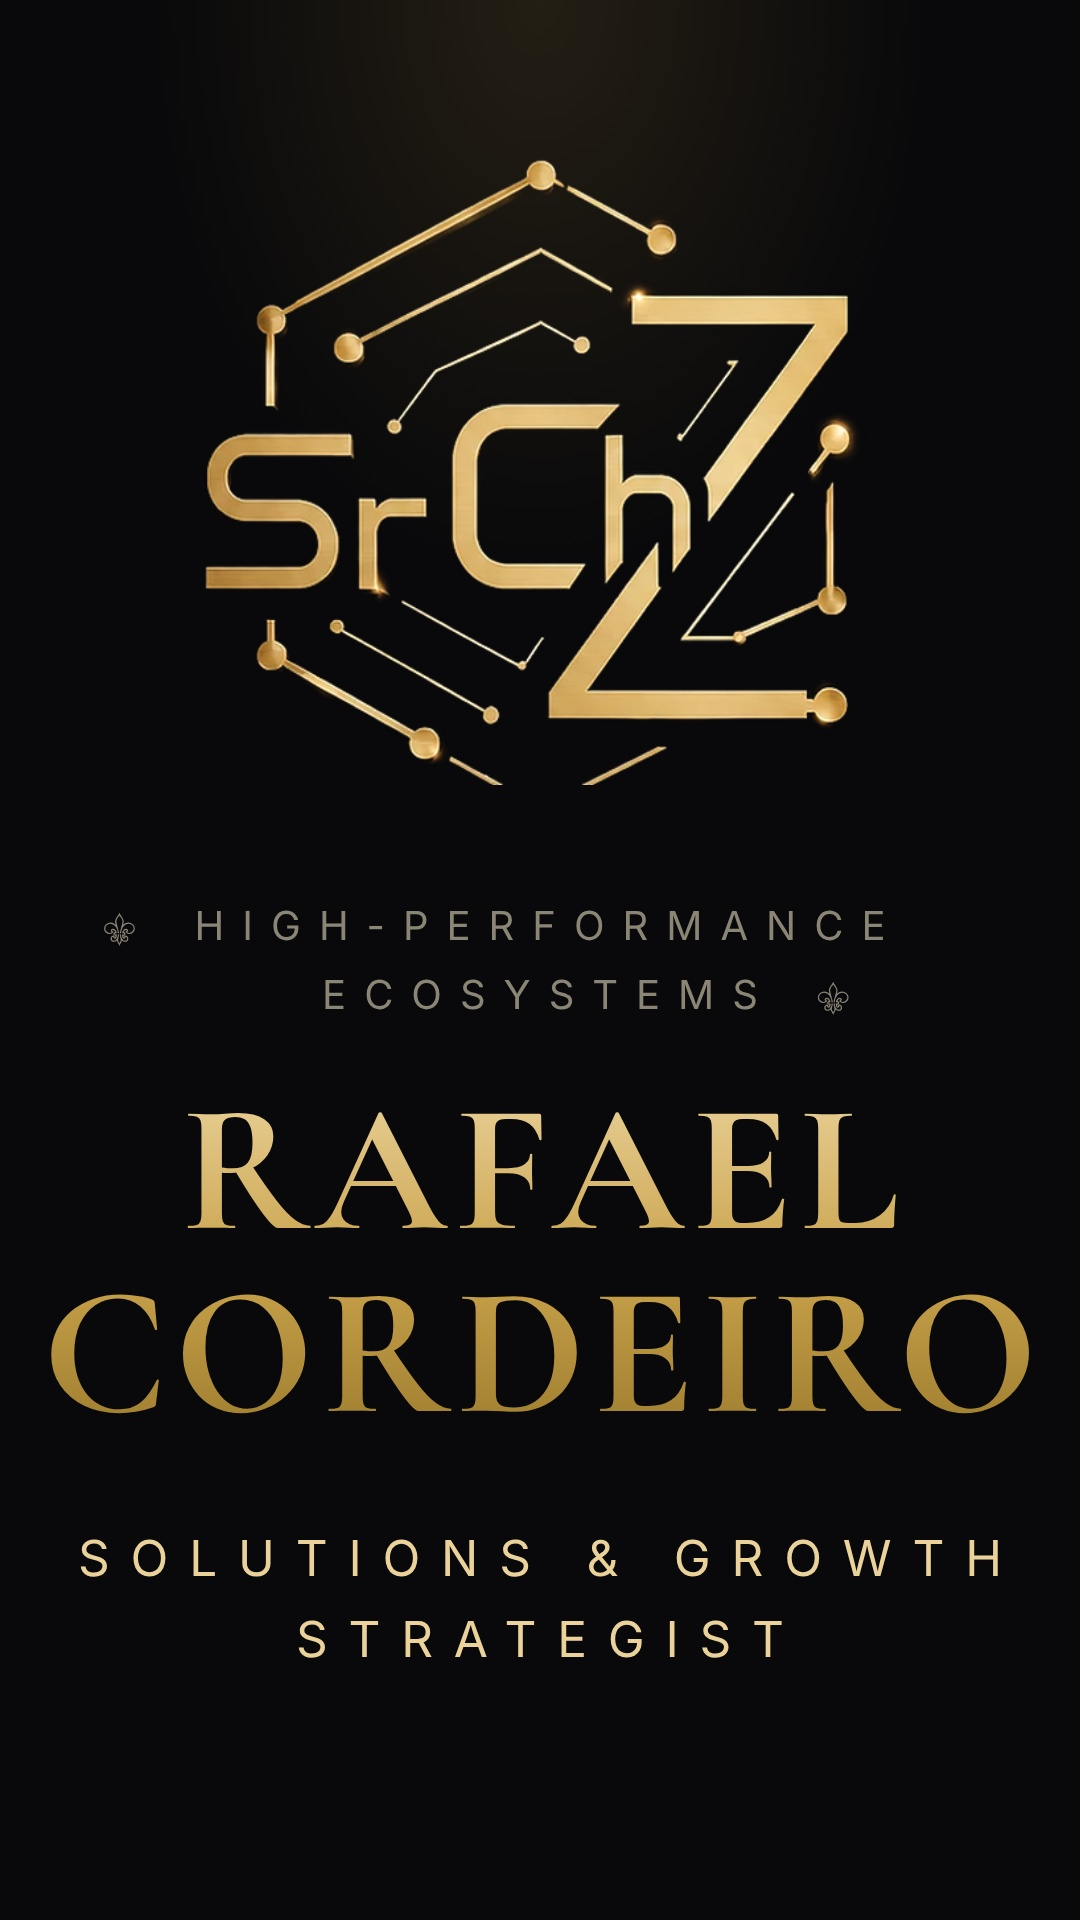
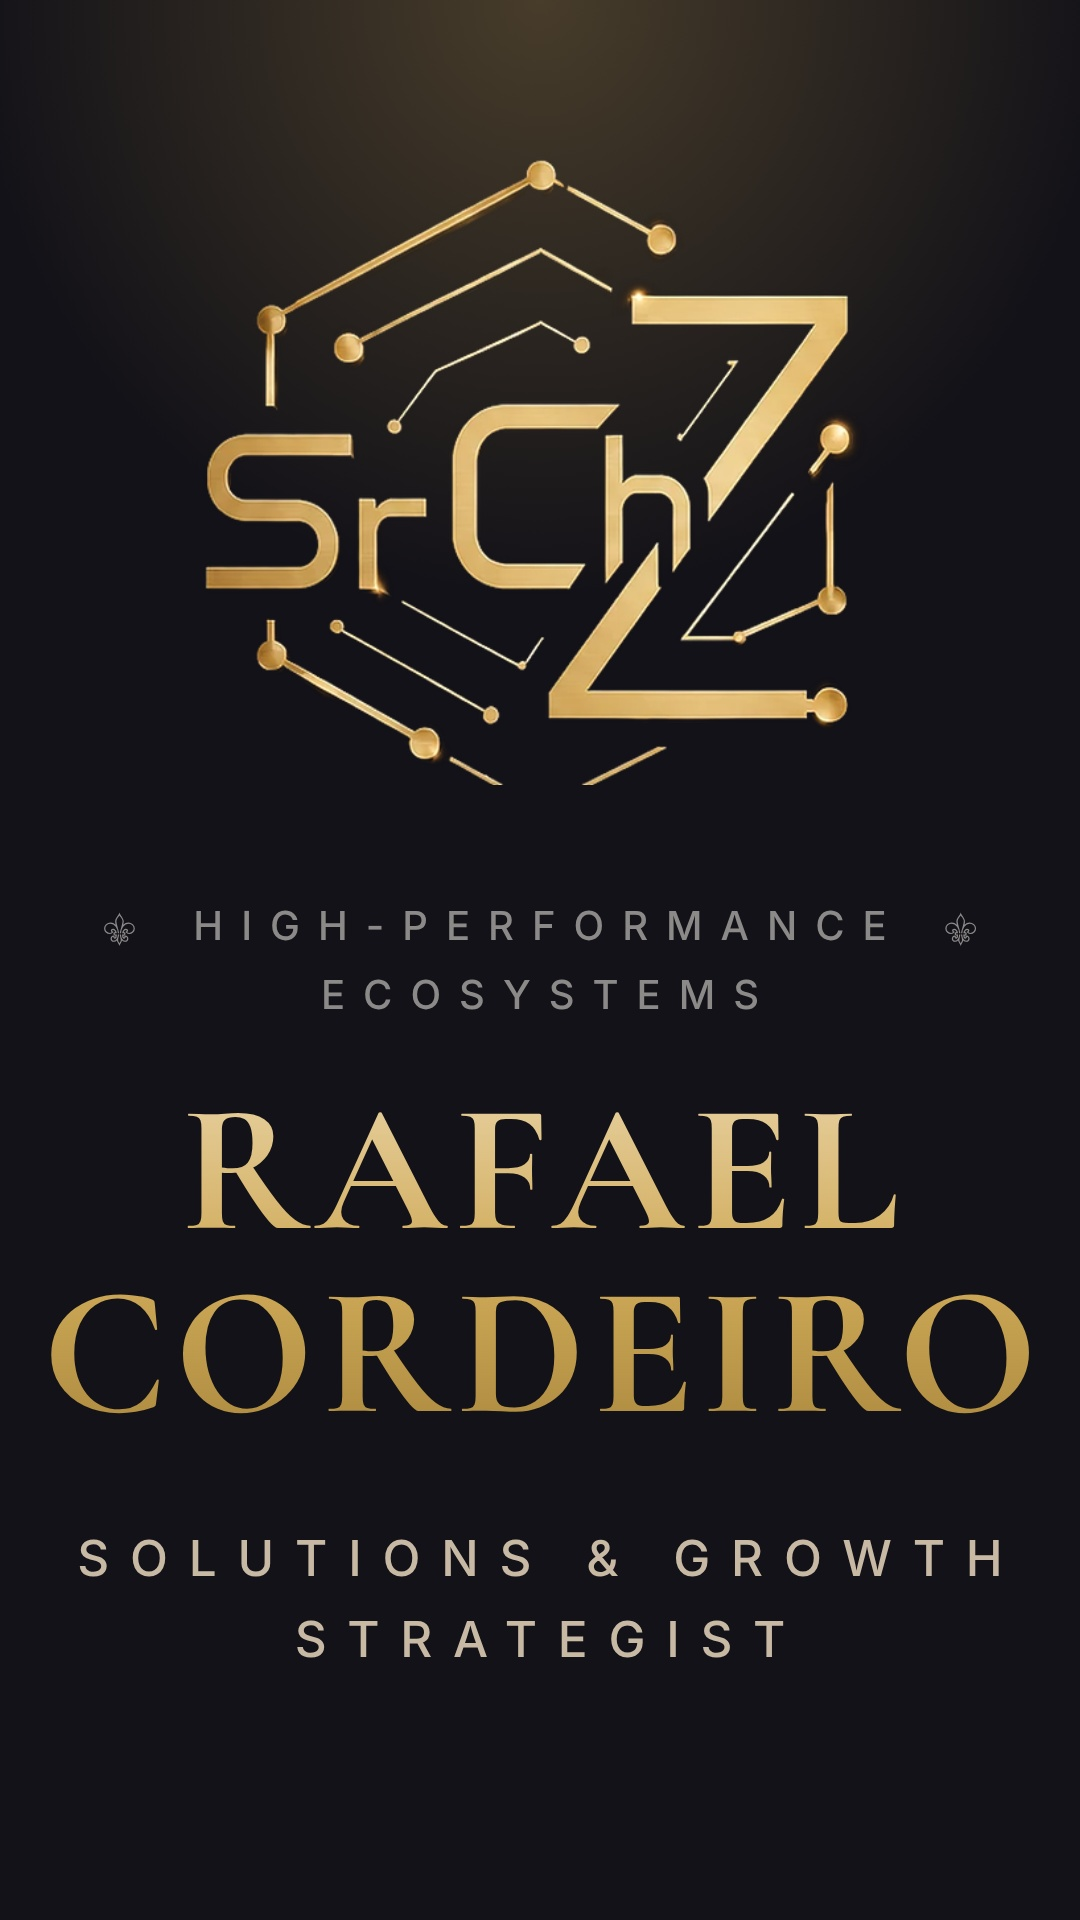
Capa do Reels: flores só em cima e as cores da capa atual do Instagram
Dois pedidos do usuário.

As flores de lis ficam só na linha de cima, uma de cada lado de
HIGH-PERFORMANCE, com ECOSYSTEMS centrada embaixo — com uma flor em cima e
outra embaixo, o rótulo não ficava simétrico.

As cores passam a ser as da capa que ele já tem no Instagram, medidas num
print do grid, e não as do CSS: fundo grafite #131218, brilho do topo com o
dobro da força, nome num dourado mais claro e menos saturado, rótulo cinza
neutro e cargo creme. O print passa pelo Instagram, que desbota um pouco os
dourados; o logo, que é o mesmo arquivo nas duas capas, mostra quanto (-3,
-2, +8 em RGB), e os dourados daqui descontam isso para a capa sair igual
depois de postada. Medida do mesmo jeito que o print, reduzida por área ao
tamanho da miniatura, cada região cai a menos de 6 níveis dele.

Rótulo e cargo passam para Inter 500. O celular desenha a fonte mais cheia
que o Chromium daqui: com a 400, as letras finas saíam 10 a 20% mais
fracas que no print, medida a tinta total da linha, com o mesmo tamanho
(STRATEGIST com 160 px nas duas). Com a 500 a tinta bate a ±2%. A média
dos pixels acima de um limiar dizia o contrário, e era o limiar que
enganava: escurecendo a cor, as bordas finas saem da conta.

Claude-Session: https://claude.ai/code/session_01MSpLeeFCgv86181idZjs4t

diff --git a/tools/video/film-cover.html b/tools/video/film-cover.html
@@ -3,9 +3,17 @@
 
      Reproduz o topo da /growth no recorte 9:16 que o usuario mandou como
      modelo: as posicoes abaixo sao as medidas daquele recorte, escaladas para
-     1080x1920, e fontes, cores e espacamentos sao os do CSS da pagina. Muda
-     o cargo, a pedido dele: Solutions & Growth, e nao Growth & Branding. E
-     as duas palavras do rotulo ficam centradas uma sobre a outra.
+     1080x1920, e fontes e espacamentos sao os do CSS da pagina. Muda o
+     cargo, a pedido dele: Solutions & Growth, e nao Growth & Branding. E as
+     flores ficam so na linha de cima, com as duas palavras do rotulo
+     centradas uma sobre a outra.
+
+     As cores nao sao as do CSS: sao as da capa que o usuario ja tem no
+     Instagram, medidas num print do grid. O print passa pelo Instagram, que
+     desbota um pouco os dourados — o logo, que e o mesmo arquivo nas duas,
+     mostra quanto (-3, -2, +8 em RGB). Os dourados daqui descontam isso, para
+     a capa sair igual a dele depois de postada. Medida do mesmo jeito que o
+     print, cada regiao cai a menos de 6 niveis dele.
 
      O bloco vai de y=159 a y=1658 — 1499 px, mais que os 1440 do recorte
      3:4 do grid do perfil. No recorte padrao (o miolo) o grid perde o topo
@@ -16,38 +24,44 @@
 <style>
   @font-face{font-family:"Cormorant Garamond";font-weight:700;font-display:block;
     src:url(/fonts/cormorant-garamond-latin-700-normal.woff2) format("woff2")}
-  @font-face{font-family:"Inter";font-weight:400;font-display:block;
-    src:url(/fonts/inter-latin-400-normal.woff2) format("woff2")}
+  @font-face{font-family:"Inter";font-weight:500;font-display:block;
+    src:url(/fonts/inter-latin-500-normal.woff2) format("woff2")}
   :root{
-    --bg:#09090b; --muted:#8b8576; --gold:#c9a24b; --gold-2:#ead29a; --gold-deep:#9c7c2e;
+    --bg:#131218; --kick:#8c8a89; --role:#c7b9a4;
+    --name-1:#e8d1a1; --name-2:#cfaa59; --name-3:#ab893e;
     --serif:"Cormorant Garamond",Georgia,serif; --sans:"Inter",sans-serif;
   }
   *{margin:0;padding:0;box-sizing:border-box}
   html,body{background:var(--bg)}
   #c{position:relative;width:1080px;height:1920px;overflow:hidden;background:var(--bg);
-     font-family:var(--sans);font-weight:400;-webkit-font-smoothing:antialiased;text-align:center}
-  /* o brilho de cima do .hero-glow da pagina. O de baixo fica de fora: no
-     site ele mora no pe do topo, abaixo dos botoes, fora do recorte que
-     serviu de modelo — aqui ele acendia um brilho que o modelo nao tem */
+     font-family:var(--sans);font-weight:500;-webkit-font-smoothing:antialiased;text-align:center}
+  /* o brilho de cima do .hero-glow da pagina, com a forca e a largura da
+     capa do usuario (no centro do topo, 65,56,39 sobre o fundo 19,18,24). O
+     de baixo fica de fora: no site ele mora no pe do topo, abaixo dos botoes,
+     fora do recorte que serviu de modelo */
   #glow{position:absolute;inset:0;background:
-    radial-gradient(60% 50% at 50% 0%,rgba(201,162,75,.14),transparent 60%)}
+    radial-gradient(85% 50% at 50% 0%,rgba(201,165,88,.29),transparent 62%)}
   .ab{position:absolute;left:0;right:0}
   /* a srchz-mark.png tem 720 px, mas o desenho ocupa 496 a partir de x=107,
      y=20; o resto e margem transparente. Com 951 px de imagem o desenho fica
      com os 655 de largura do modelo, e o topo dele cai em y=159 */
   #mark{position:absolute;left:50%;top:133px;width:951px;transform:translateX(-50%)}
-  /* .hero-kicker: Inter 400, caixa-alta, .45em, cinza */
+  /* .hero-kicker: caixa-alta, .45em, cinza neutro. Inter 500, e nao a 400 do
+     site: o celular desenha a fonte mais cheia que o Chromium daqui, e com a
+     400 as letras finas saiam 10 a 20% mais fracas que no print, medida a
+     tinta total da linha (mesmo tamanho, 227 px de largura nas duas) */
   #kick{top:892px;font-size:40px;line-height:67px;letter-spacing:.45em;
-        text-transform:uppercase;color:var(--muted)}
+        text-transform:uppercase;color:var(--kick)}
   /* a Inter nao tem a flor de lis; no celular ela vem de uma fonte do
      sistema e sai vazada e fina. A da FreeSerif e assim; a da DejaVu, que
      seria a escolha automatica aqui, e cheia */
   .fl{font-family:"FreeSerif",serif;letter-spacing:0;font-size:1.02em}
-  /* No site cada flor ocupa lugar na propria linha: empurra HIGH-PERFORMANCE
-     para a direita e ECOSYSTEMS para a esquerda, e as palavras deixam de
-     ficar uma sobre a outra. Aqui a flor fica pendurada para fora da
-     palavra: a margem negativa do tamanho dela tira a flor da conta da
-     centralizacao, e a linha continua na base certa por ser texto corrido. */
+  /* As duas flores ficam na linha de cima, uma de cada lado, e penduradas
+     para fora da palavra: a margem negativa do tamanho delas tira as flores
+     da conta da centralizacao, e as duas palavras ficam centradas uma sobre
+     a outra. No site cada flor ocupa lugar na linha — uma antes de
+     HIGH-PERFORMANCE, outra depois de ECOSYSTEMS — e empurra as palavras
+     para os lados. */
   .hang{white-space:nowrap}
   /* o espacamento depois da ultima letra conta na largura da palavra; sem
      tirar ele, a palavra centra deslocada e a flor de baixo fica 18 px mais
@@ -57,18 +71,18 @@
      site — por isso o CORDEIRO sai mais fundo que o RAFAEL */
   #name{top:1079px;font-family:var(--serif);font-weight:700;font-size:183px;line-height:183px;
         letter-spacing:.04em;padding-left:.04em;
-        background:linear-gradient(180deg,var(--gold-2) 0%,var(--gold) 52%,var(--gold-deep) 100%);
+        background:linear-gradient(180deg,var(--name-1) 0%,var(--name-2) 52%,var(--name-3) 100%);
         -webkit-background-clip:text;background-clip:text;color:transparent}
-  /* .hero-title: Inter 400, caixa-alta, .42em, dourado claro */
+  /* .hero-title: Inter 500 pelo mesmo motivo, caixa-alta, .42em, creme */
   #role{top:1518px;font-size:49.5px;line-height:81px;letter-spacing:.42em;padding-left:.42em;
-        text-transform:uppercase;color:var(--gold-2)}
+        text-transform:uppercase;color:var(--role)}
 </style>
 </head>
 <body>
 <div id="c">
   <div id="glow"></div>
   <img id="mark" src="/brand/srchz-mark.png" alt="SrChZ Technologies">
-  <p id="kick" class="ab"><span class="hang l"><span class="fl">⚜</span>&nbsp;&nbsp;</span><span class="wd">High-Performance</span><br><span class="wd">Ecosystems</span><span class="hang r">&nbsp;&nbsp;<span class="fl">⚜</span></span></p>
+  <p id="kick" class="ab"><span class="hang l"><span class="fl">⚜</span>&nbsp;&nbsp;</span><span class="wd">High-Performance</span><span class="hang r">&nbsp;&nbsp;<span class="fl">⚜</span></span><br><span class="wd">Ecosystems</span></p>
   <h1 id="name" class="ab">RAFAEL<br>CORDEIRO</h1>
   <p id="role" class="ab">Solutions &amp; Growth<br>Strategist</p>
 </div>

diff --git a/tools/video/film-cover.js b/tools/video/film-cover.js
@@ -49,7 +49,7 @@ const server = http.createServer((q, r) => {
      descricao, entao nao serve de prova. load() devolve as faces que de fato
      carregaram: lista vazia e nome saindo em Georgia. */
   const missing = await page.evaluate(async () => {
-    const want = ['700 183px "Cormorant Garamond"', '400 40px "Inter"'];
+    const want = ['700 183px "Cormorant Garamond"', '500 40px "Inter"'];
     const out = [];
     for (const w of want) if (!(await document.fonts.load(w)).length) out.push(w);
     const img = document.getElementById('mark');

diff --git a/tools/video/README-film.md b/tools/video/README-film.md
@@ -180,18 +180,32 @@ Conferido: cada trecho bate com o quadro exato da origem — SSIM 0,999 contra
 `film-cover.js` renderiza `film-cover.html` em 1080×1920 e grava
 `srchz-order-of-chaos-reels-capa.jpg`. Serve para o de 60 s e para o de 30 s.
 
-**A capa reproduz o topo da /growth.** O modelo foi um recorte 9:16 que o
-usuário mandou da página: logo no alto, "High-Performance Ecosystems" entre
-flores de lis, o nome em dourado e o cargo em caixa-alta espaçada. Duas coisas
-mudam, a pedido dele: o cargo, que vira Solutions & Growth Strategist, e o
-rótulo, que fica com as duas palavras centradas uma sobre a outra. No site cada
-flor ocupa lugar na própria linha e empurra a palavra para o lado; aqui a flor
-fica pendurada para fora da palavra, com uma margem negativa do tamanho dela.
-As posições do HTML são as medidas daquele recorte, escaladas para 1080×1920, e
-cada linha cai a menos de 3 px da altura do modelo. As fontes, as cores e os
-espaçamentos são os do
-CSS da página: Cormorant Garamond 700 no nome, Inter 400 no resto e o mesmo
-gradiente dourado nas duas linhas do nome.
+**A composição é a do topo da /growth.** O modelo foi um recorte 9:16 que o
+usuário mandou da página: logo no alto, "High-Performance Ecosystems", o nome
+em dourado e o cargo em caixa-alta espaçada. As posições do HTML são as medidas
+daquele recorte, escaladas para 1080×1920, e cada linha cai a menos de 3 px da
+altura do modelo. Mudam duas coisas, a pedido dele:
+
+- o cargo, que vira Solutions & Growth Strategist;
+- as flores de lis, que ficam só na linha de cima, uma de cada lado de
+  HIGH-PERFORMANCE, com ECOSYSTEMS centrada embaixo. As flores ficam penduradas
+  para fora da palavra, com uma margem negativa do tamanho delas, para não
+  entrarem na conta da centralização.
+
+**As cores são as da capa que o usuário já tem no Instagram**, medidas num print
+do grid — não as do CSS. O fundo é grafite (`#131218`) em vez de quase preto, o
+brilho do topo tem o dobro da força, o nome é um dourado mais claro e menos
+saturado, o rótulo é cinza neutro e o cargo é creme. O print passa pelo
+Instagram, que desbota um pouco os dourados; o logo, que é o mesmo arquivo nas
+duas capas, mostra quanto (−3, −2, +8 em RGB). Os dourados daqui descontam
+isso, para a capa sair igual à dele depois de postada. Medida do mesmo jeito
+que o print (reduzida por área ao tamanho da miniatura), cada região cai a
+menos de 6 níveis dele.
+
+**Inter 500, e não a 400 do site, no rótulo e no cargo.** O celular desenha a
+fonte mais cheia que o Chromium daqui. Com a 400, as letras finas saíam 10 a
+20% mais fracas que no print, medida a tinta total da linha — e não era tamanho:
+"STRATEGIST" tem 160 px de largura nas duas. Com a 500, a tinta bate a ±2%.
 
 Duas armadilhas que a capa já resolve:
 
@@ -205,7 +219,7 @@ Duas armadilhas que a capa já resolve:
 **O grid do perfil corta o topo do logo.** O Instagram mostra a capa inteira na
 aba Reels, mas no grid recorta os 1440 px do meio (3:4). O bloco do modelo vai
 de y=159 a y=1658, 1499 px, então nenhum recorte 3:4 mostra tudo: o padrão
-perde os 80 px de cima do logo. Foi a escolha do modelo, com o logo no alto.
+perde os 80 px de cima do logo.
 
 O script recusa gerar a capa se uma fonte ou o logo não carregar, em vez de
 deixar o nome sair em Georgia. Duas execuções dão o mesmo arquivo.
